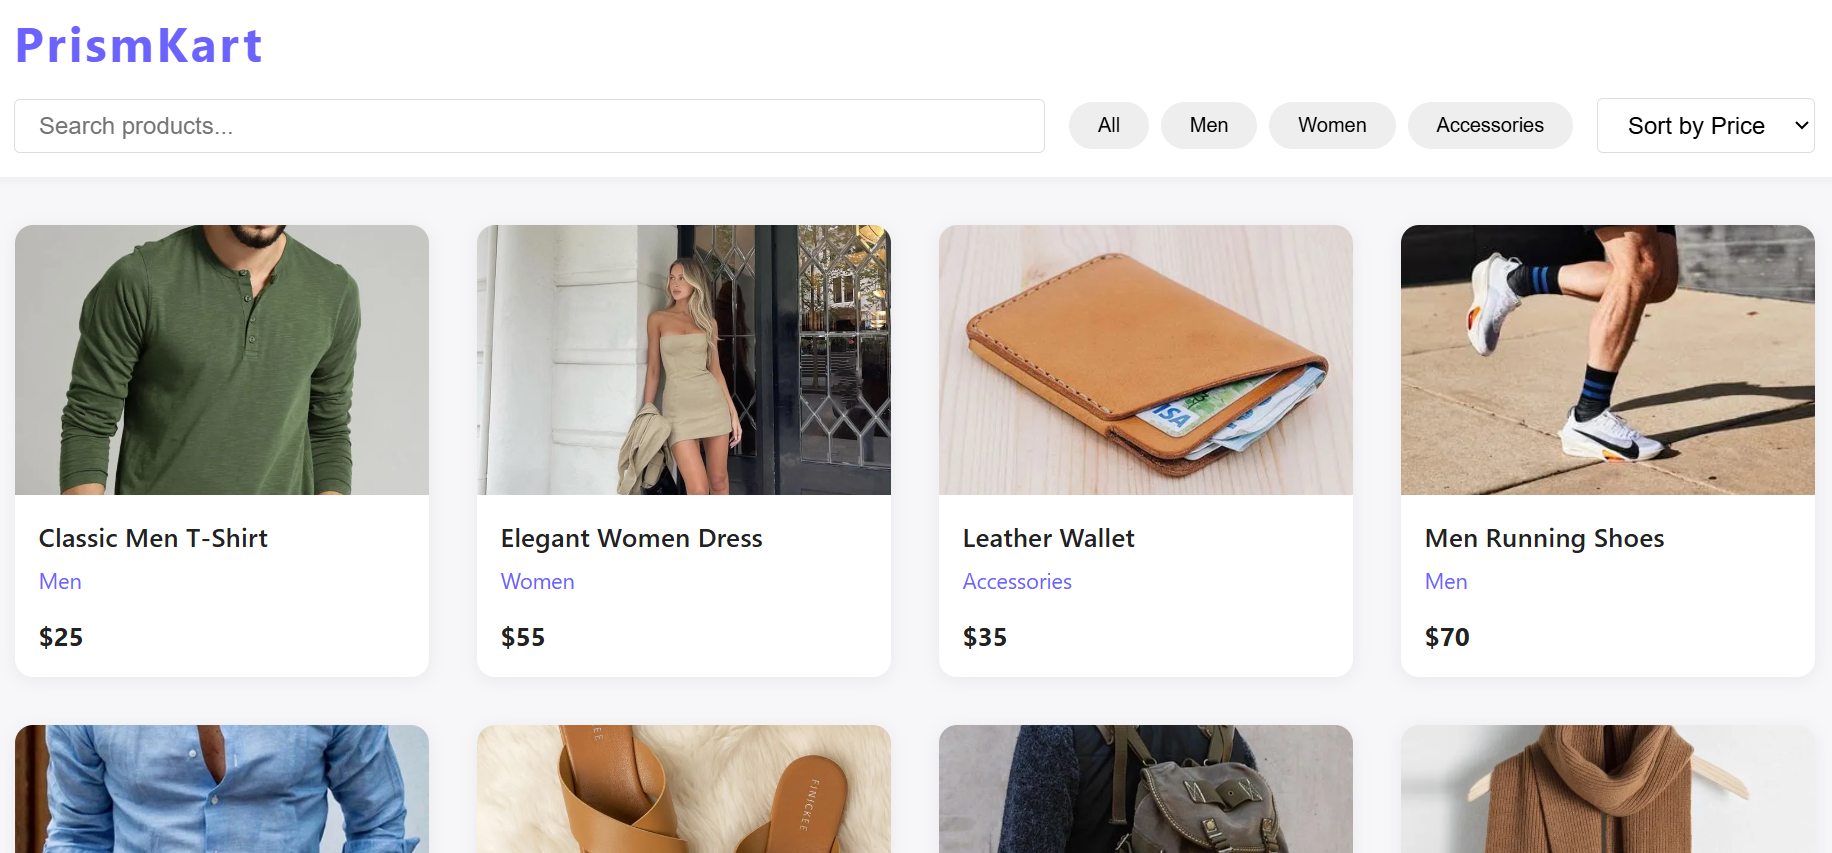
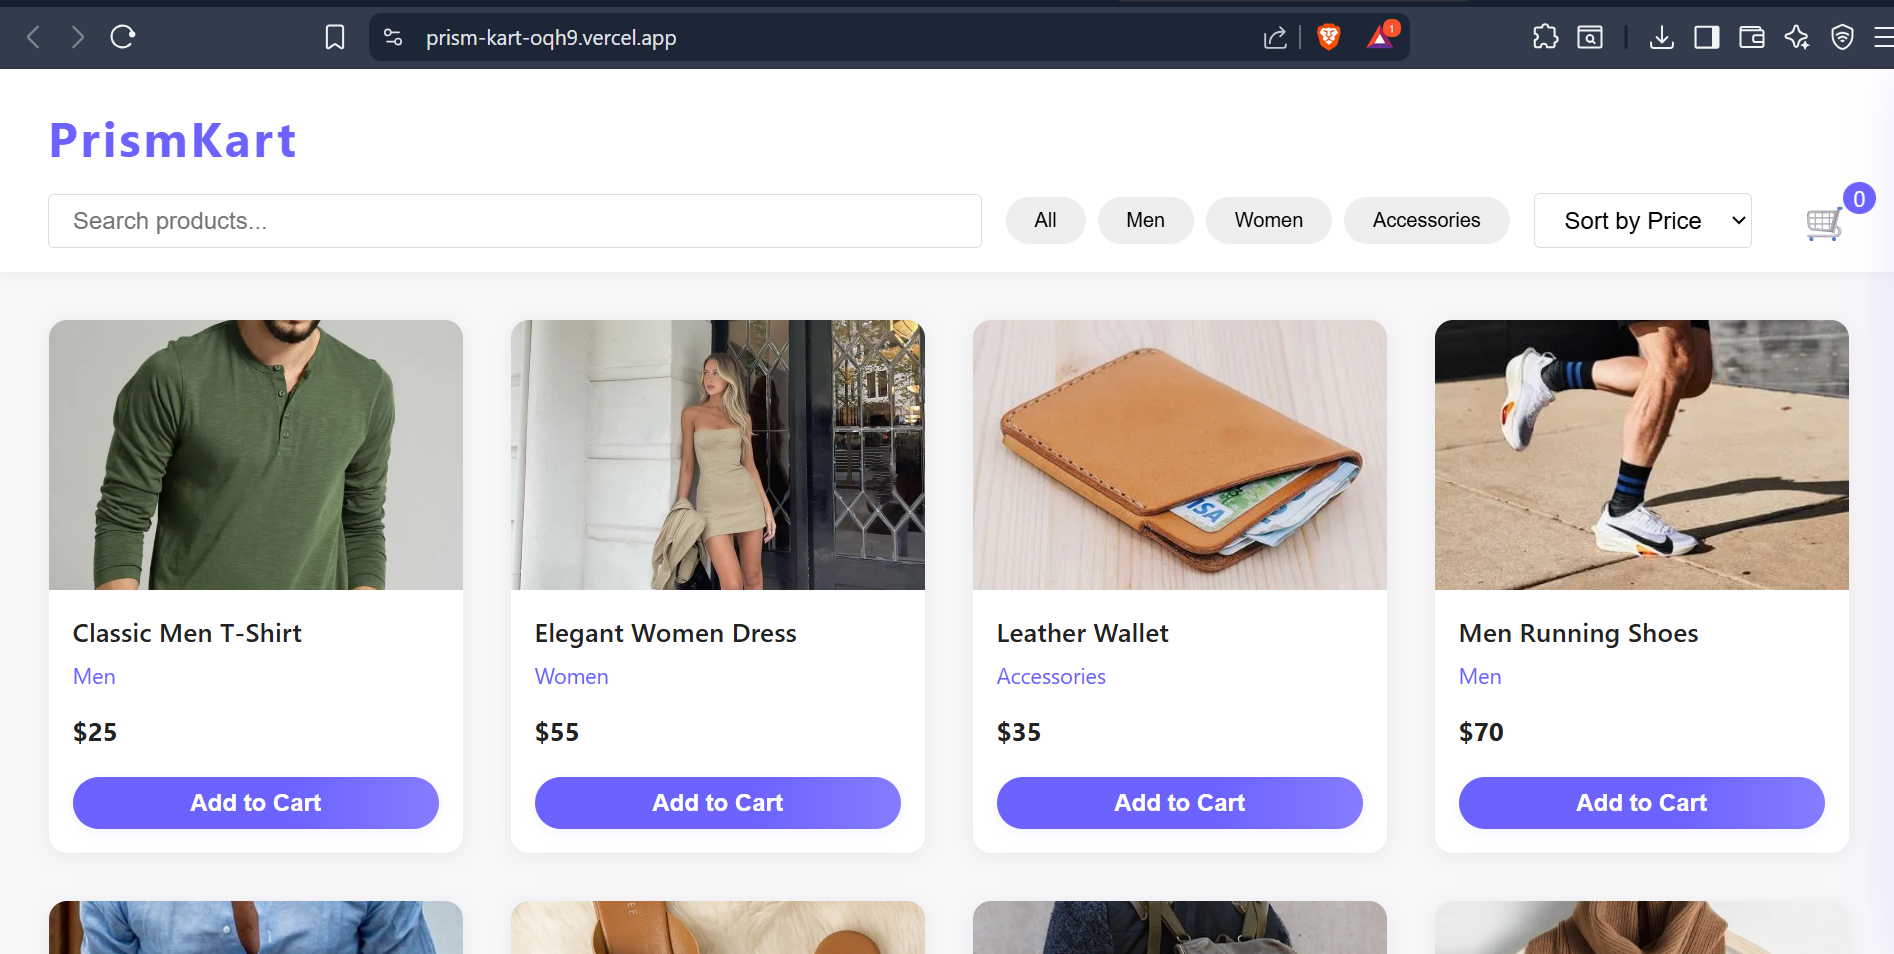
update deployment link and screenshot

diff --git a/README.md b/README.md
@@ -14,7 +14,7 @@ A responsive, interactive product listing page for the PrismKart e-commerce demo
 ![Screenshot](image.png)
 
 ## Live Demo
-[View Live](https://primkart.vercel.app/)
+[View Live](https://prism-kart-oqh9.vercel.app/)
 
 ## How to Run
 1. Download or clone this repository.
